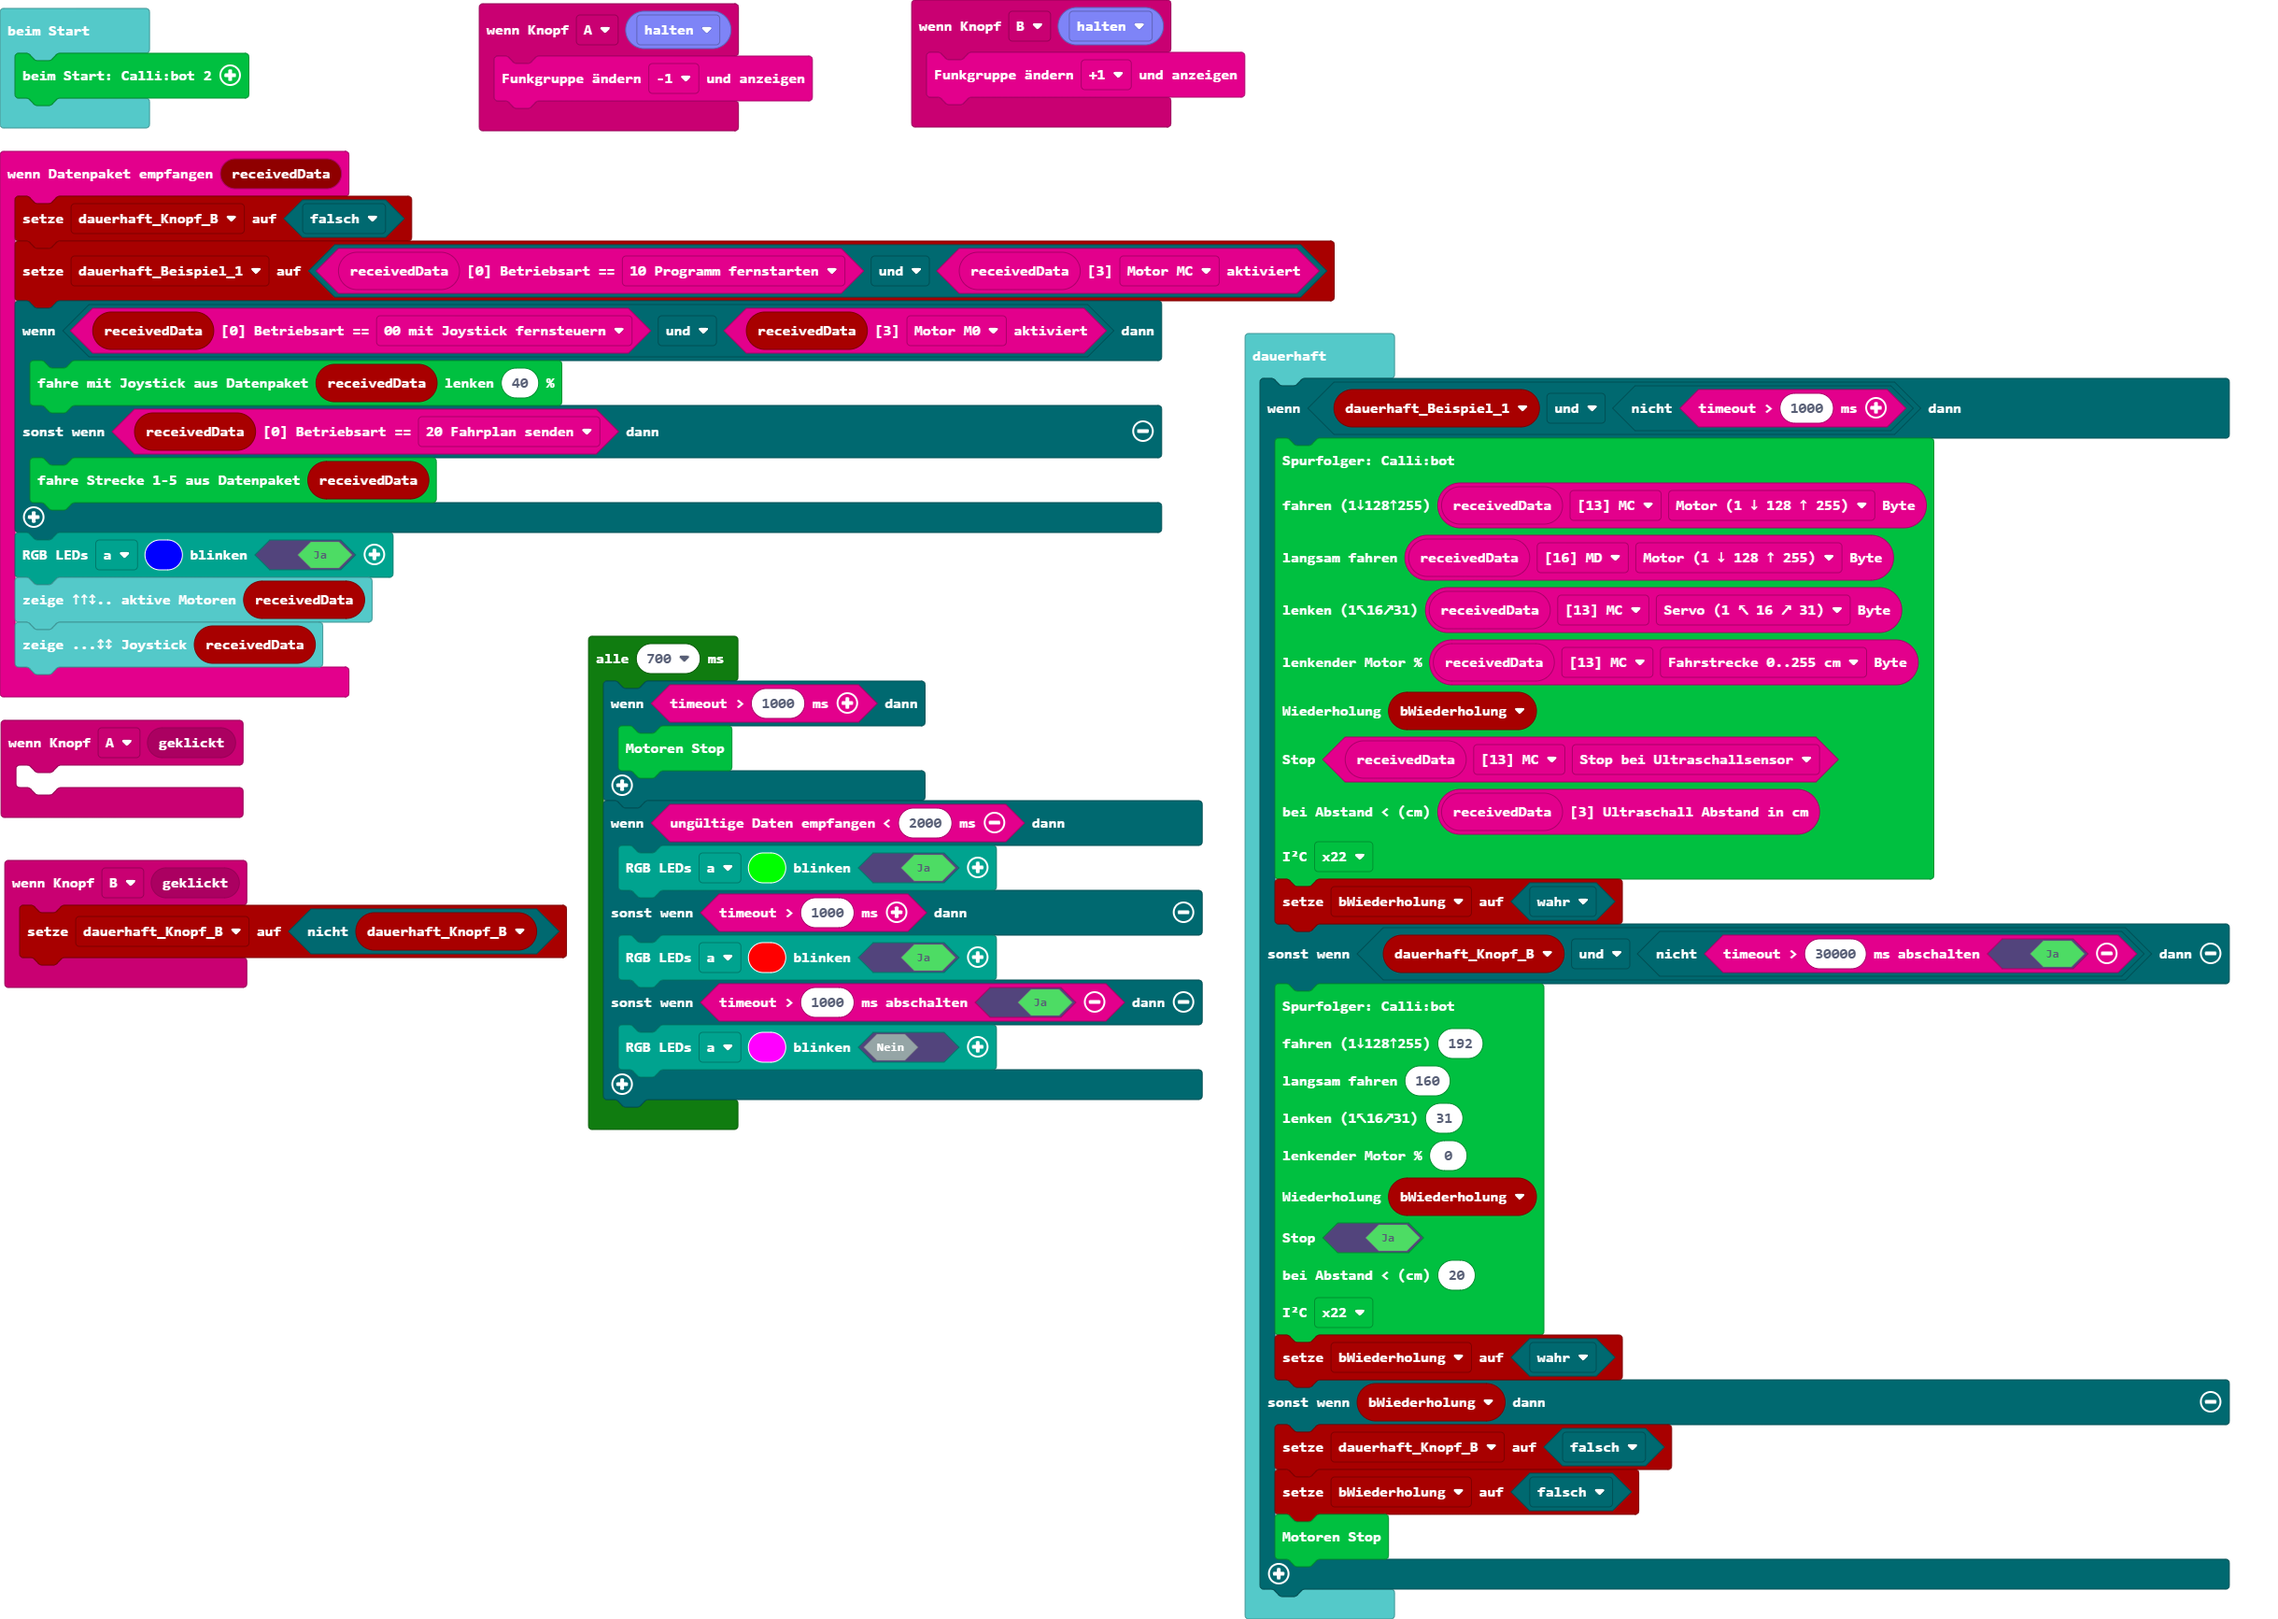
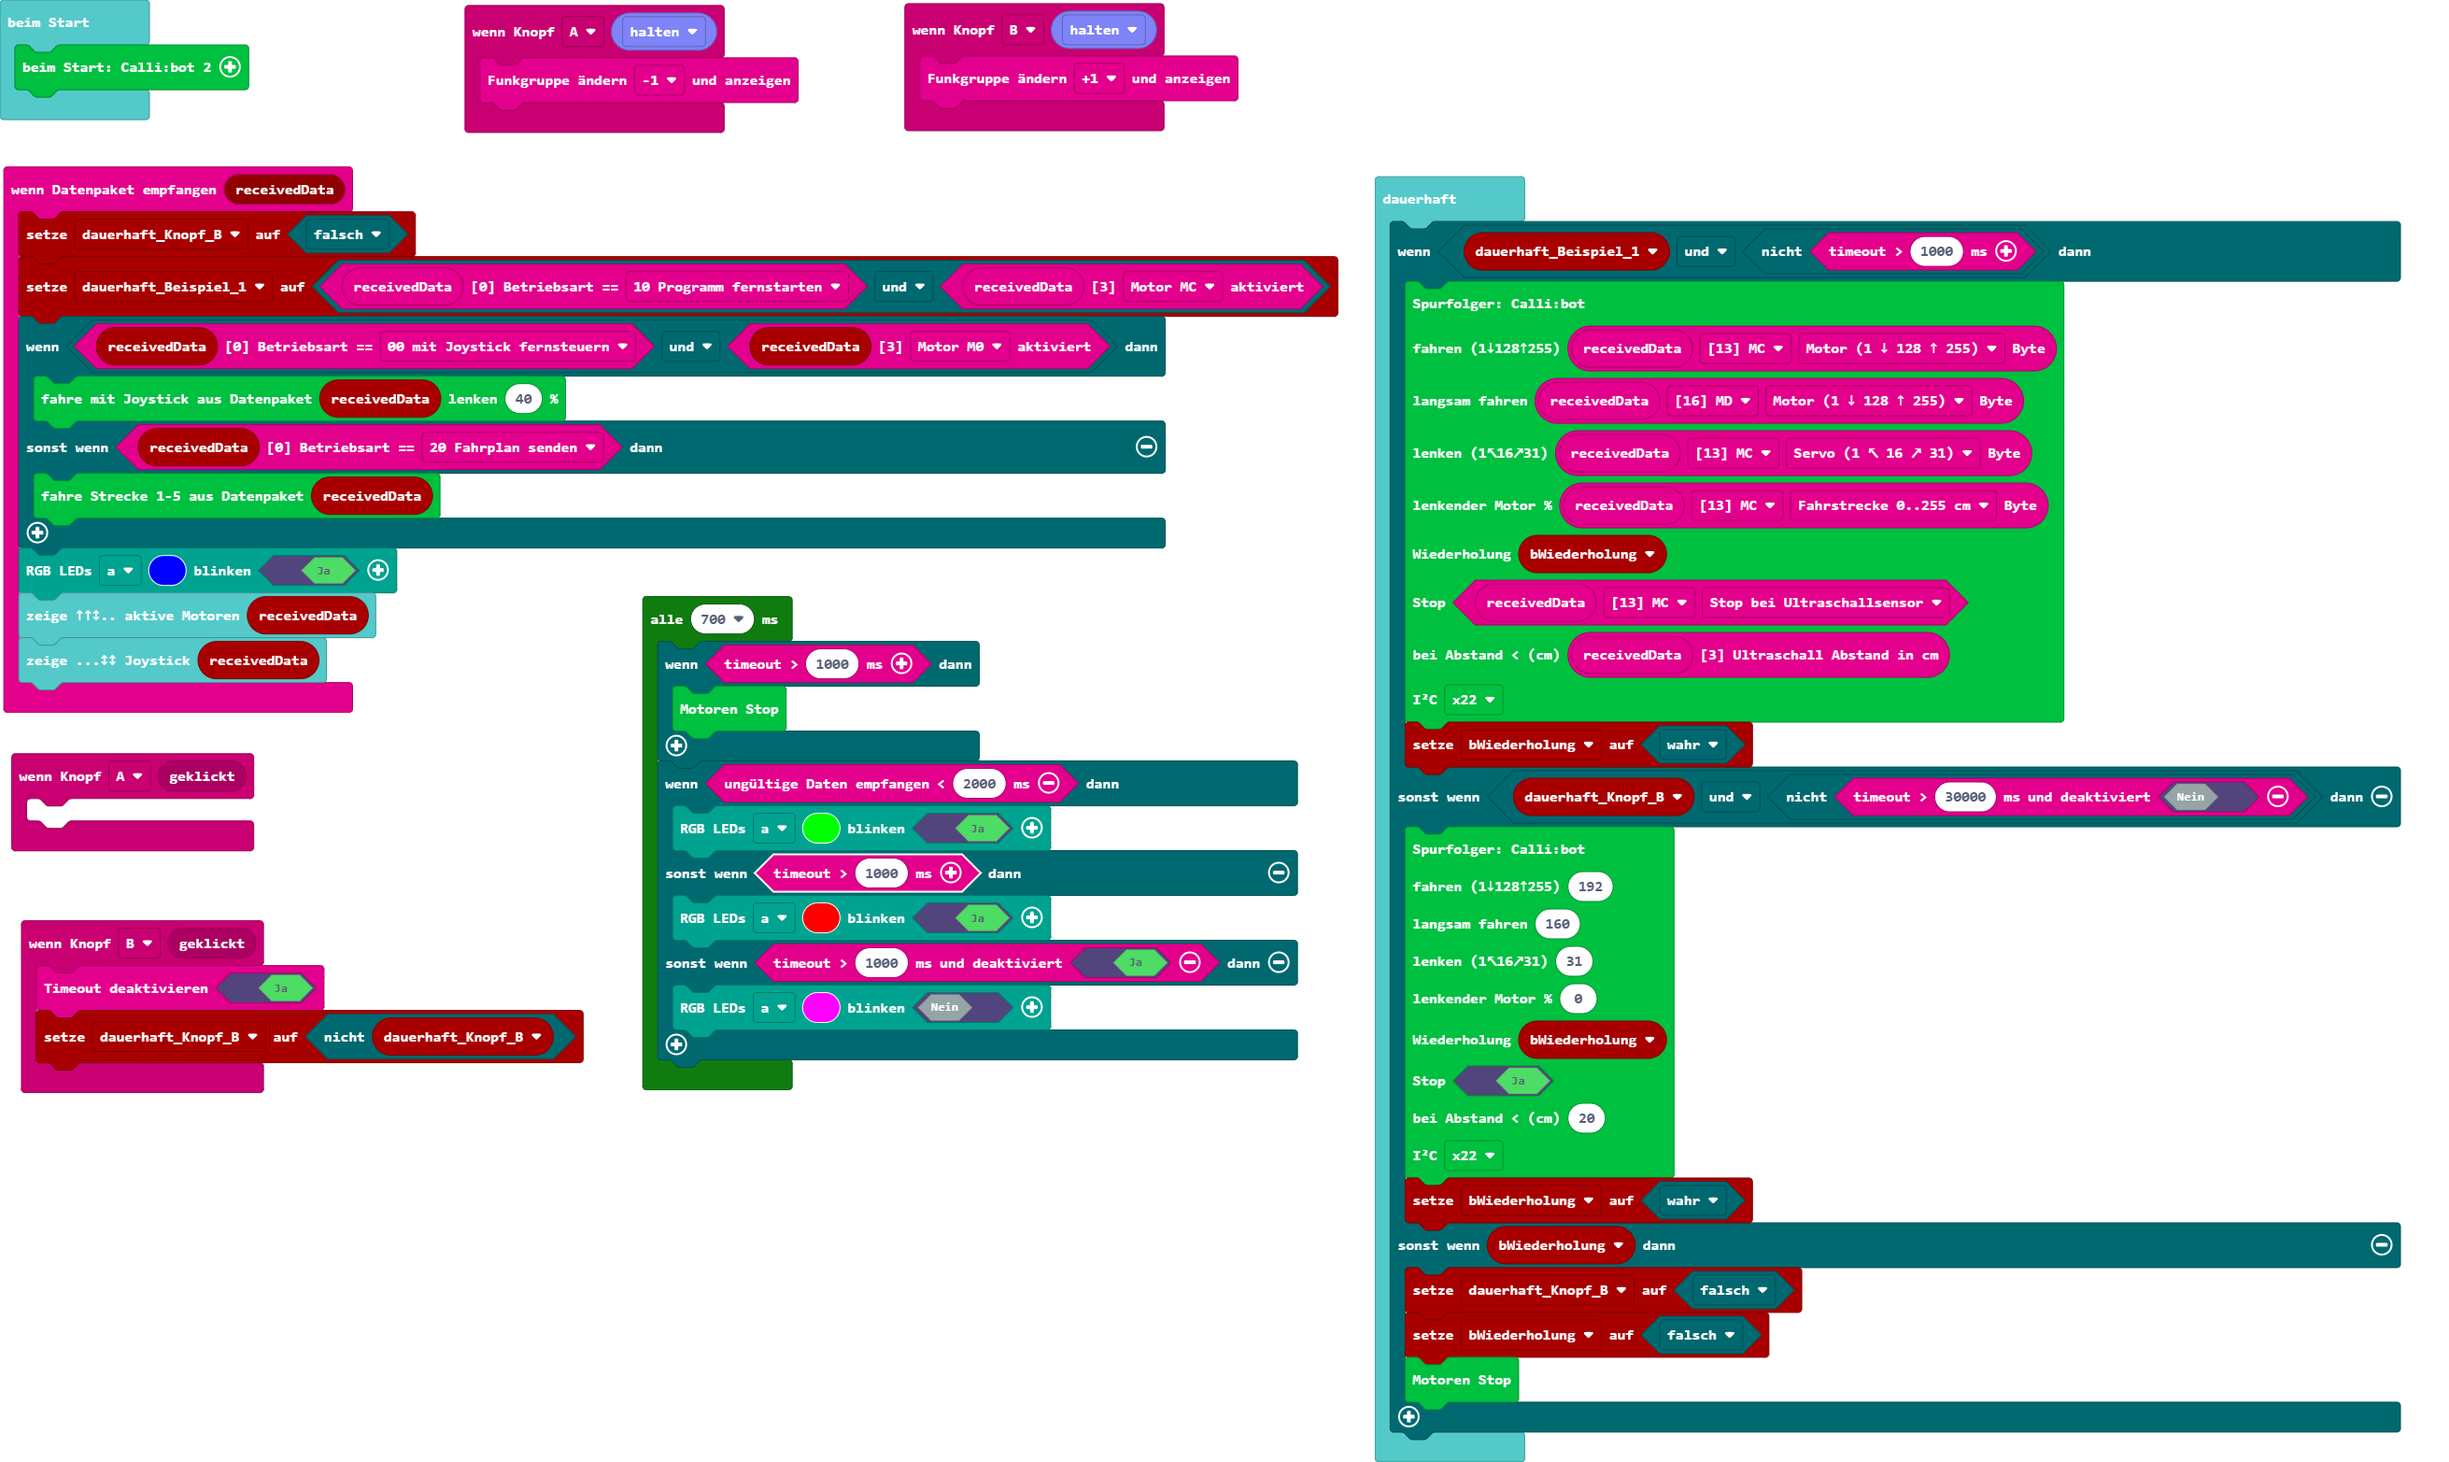
Aktualisiere pxt.json, main.blocks, main.ts

diff --git a/main.ts b/main.ts
@@ -2,6 +2,7 @@ input.onButtonEvent(Button.A, input.buttonEventClick(), function () {
 	
 })
 input.onButtonEvent(Button.B, input.buttonEventClick(), function () {
+    btf.set_timeoutDisbled(true)
     dauerhaft_Knopf_B = !(dauerhaft_Knopf_B)
 })
 input.onButtonEvent(Button.B, btf.buttonEventValue(ButtonEvent.Hold), function () {
@@ -39,7 +40,7 @@ basic.forever(function () {
         cb2.eI2C.x22
         )
         bWiederholung = true
-    } else if (dauerhaft_Knopf_B && !(btf.timeout(30000, true))) {
+    } else if (dauerhaft_Knopf_B && !(btf.timeout(30000, false))) {
         cb2.beispielSpurfolger16(
         192,
         160,
